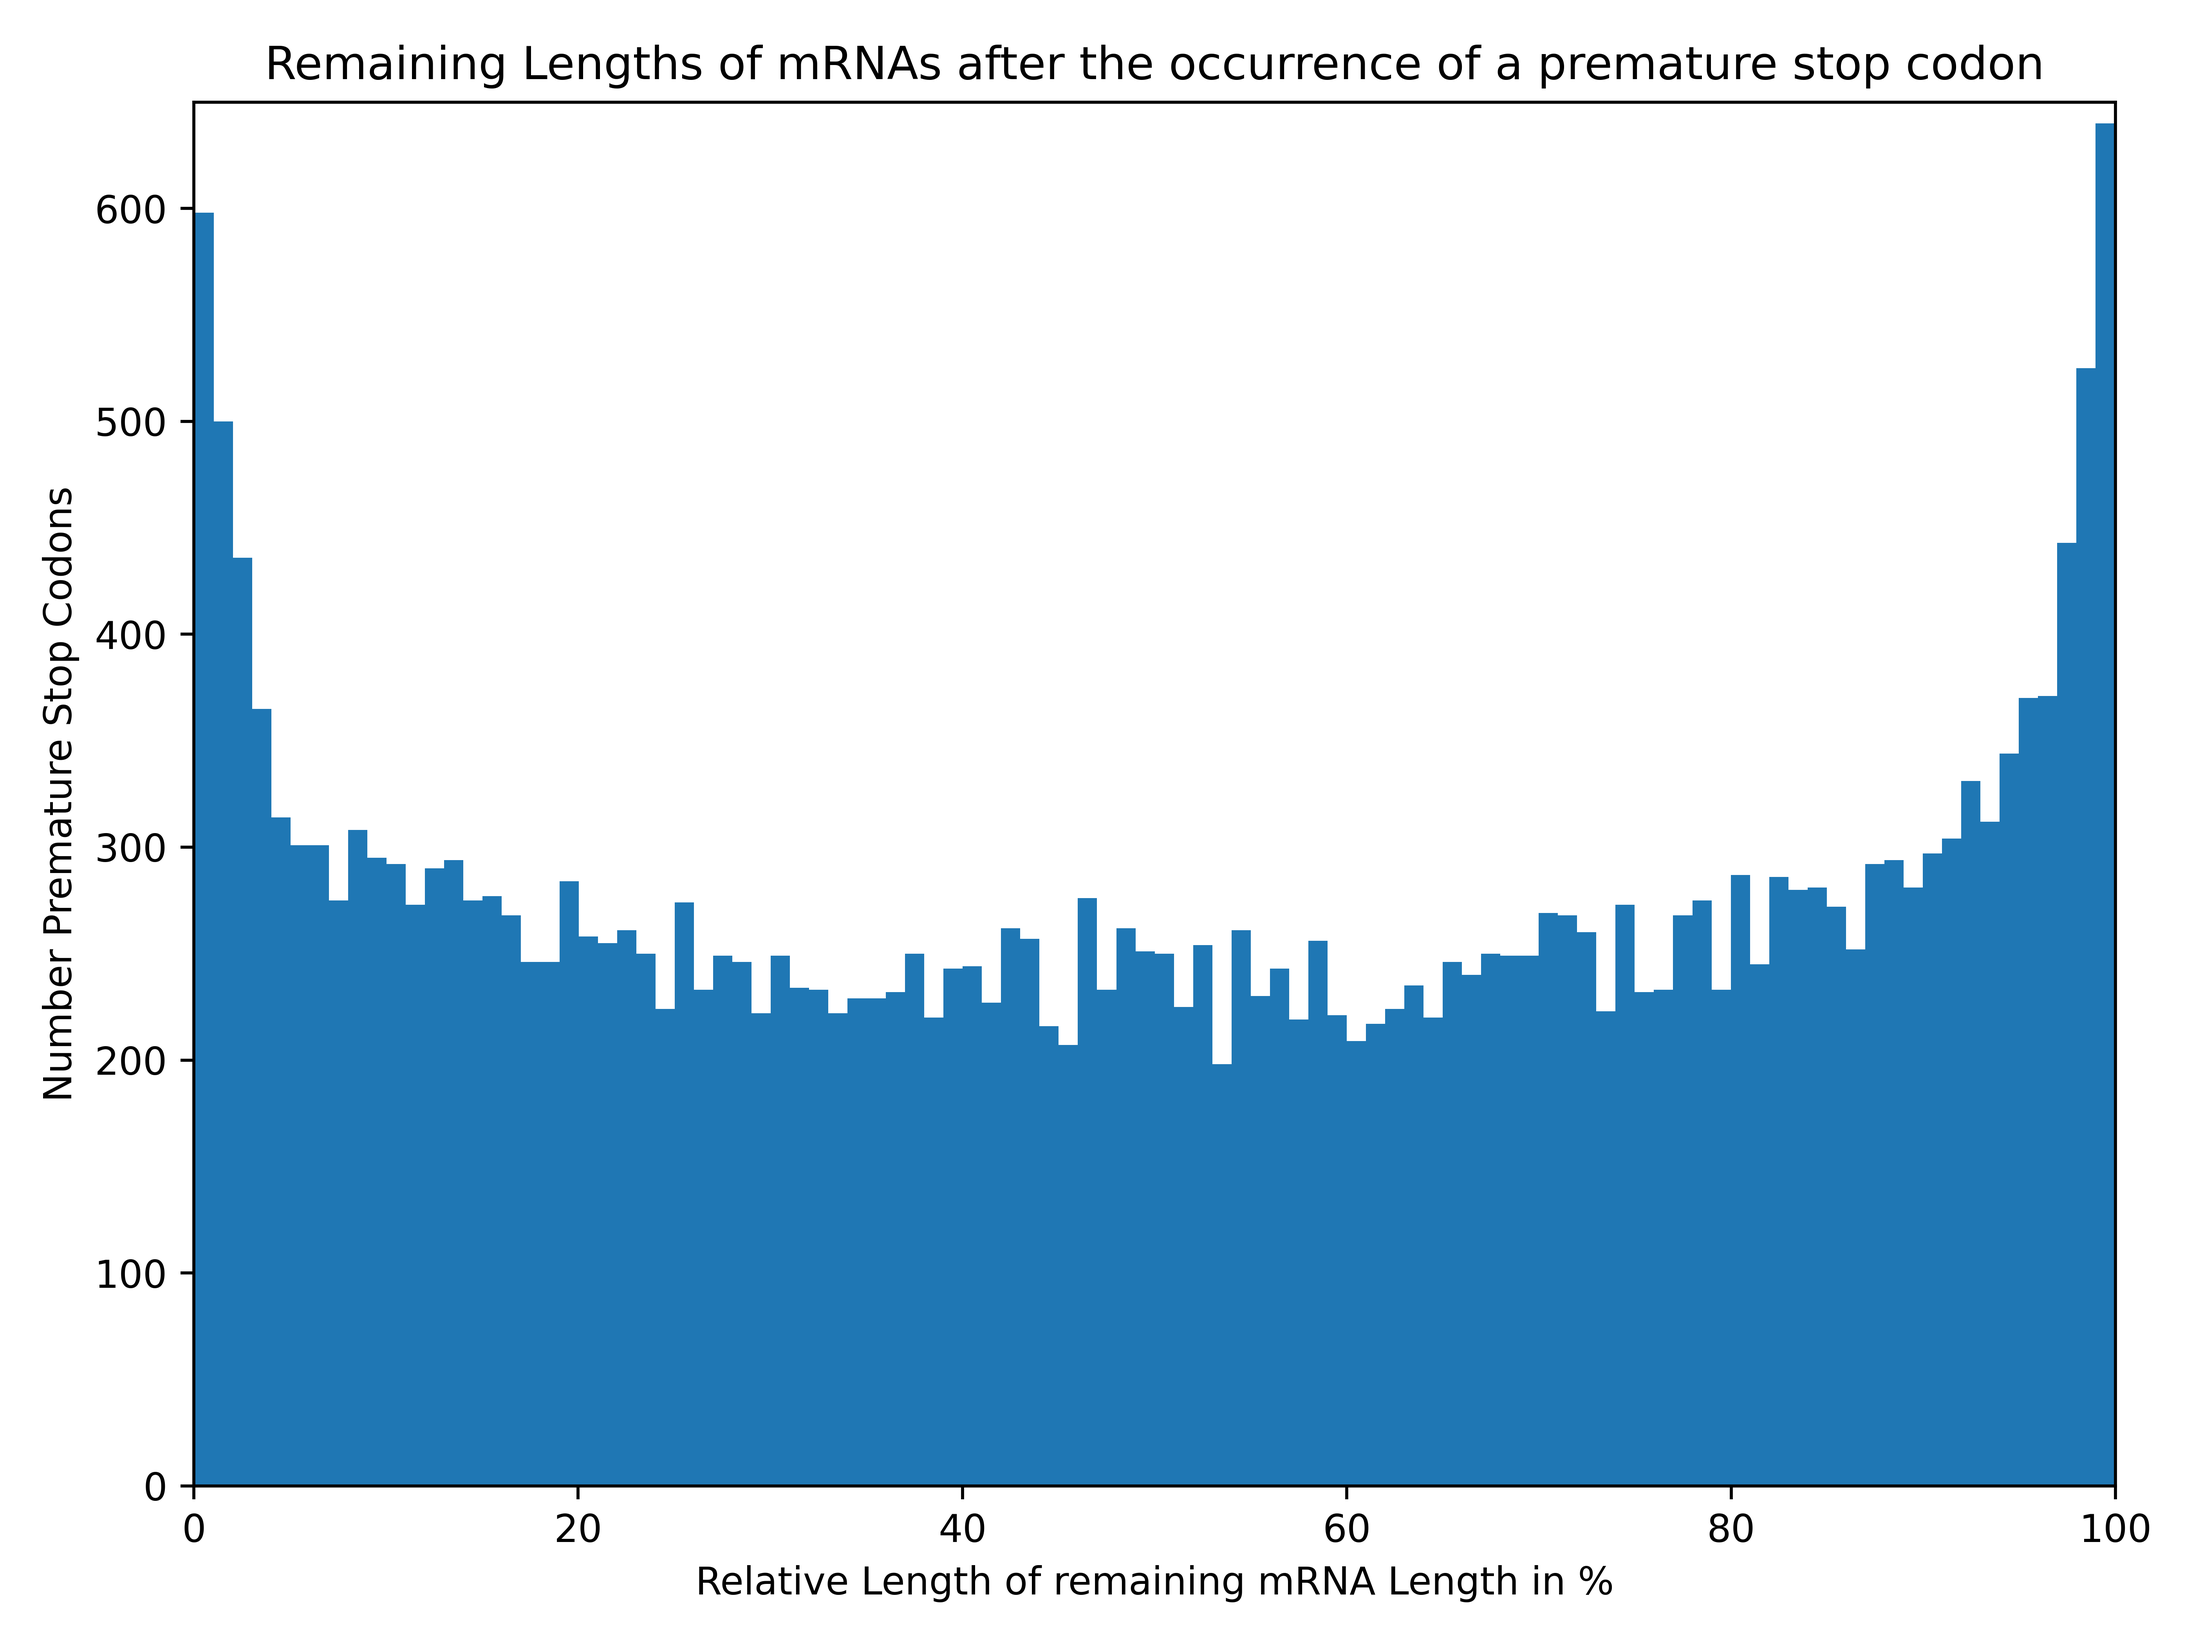
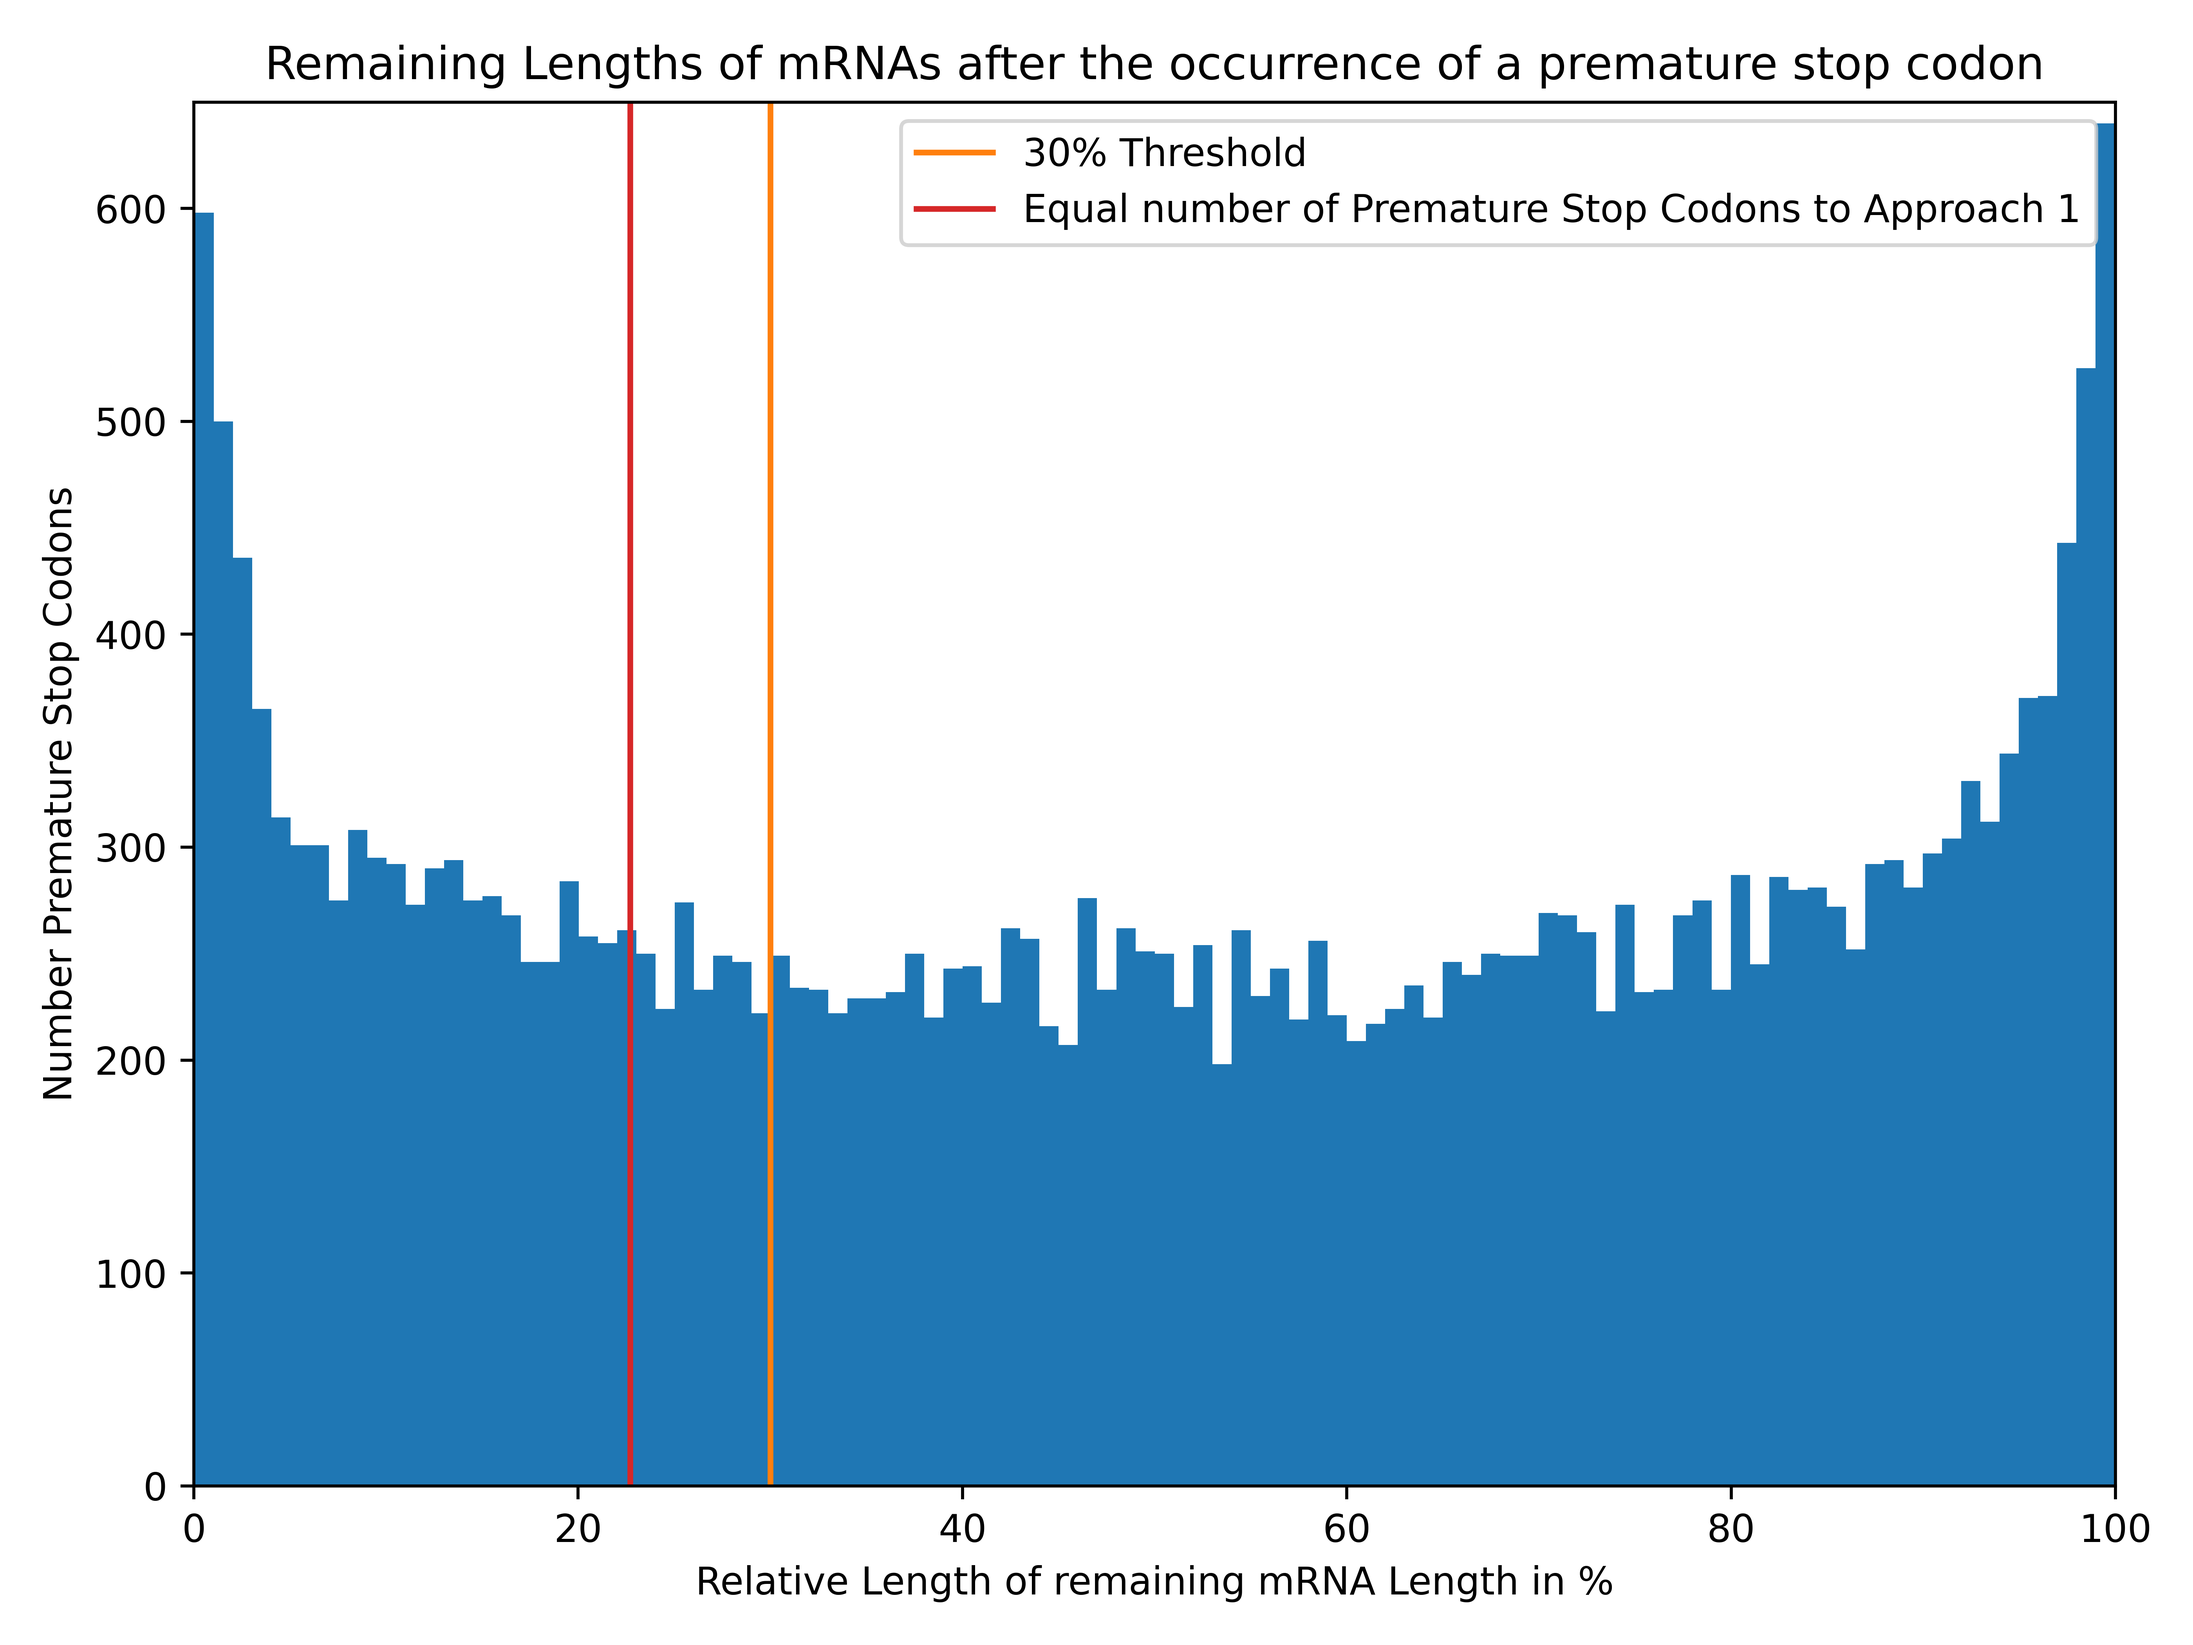
Figure Relative Length Approach

Changed region(s): [[0.4062, 0.0624, 0.9688, 0.156]]

diff --git a/scripts/Length_mRNA.py b/scripts/Length_mRNA.py
@@ -12,8 +12,8 @@ for row in ara11.index:
     short_name = name[:9]
     ara11.loc[row, 'Short_Name'] = short_name 
 
-results_table = pd.DataFrame(columns=['Chrom', 'Pos', 'Gene', 'Start_Protein', 'Stop_Protein', 
-                'Length', 'Relative_Length'])
+results_table = pd.DataFrame(columns=['Chrom', 'Pos', 'Gene', 'Start_Protein',           
+'Stop_Protein', 'Length', 'Relative_Length'])
 results_table['Chrom'] = stop_codons['Chrom']
 results_table['Pos'] = stop_codons['Pos']
 results_table['Gene'] = stop_codons['Gene']
@@ -41,3 +41,11 @@ for entry in results_table.index:
     results_table.loc[entry, 'Relative_Length'] = relative_length 
 
 results_table.to_csv('../data/processed/Relative_Lengths/Stop_Codons_Full_List_Lengths.csv')
+
+results_table_threshold = results_table[results_table['Relative_Length']>=30]
+results_table_threshold.to_csv('../data/processed/Relative_Lengths/Stop_Codons_30percent_Threshold.csv')
+results_table_sorted = results_table.sort_values(by='Relative_Length')
+results_table_equal = results_table_sorted.iloc[0:7124,]
+threshold_2 = results_table_equal.iloc[-1,]['Relative_Length']
+print("Second_Threshold: ", threshold_2)
+results_table_equal.to_csv('../data/processed/Relative_Lengths/Stop_Codons_Equal_Number_Approach1.csv')
